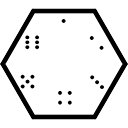
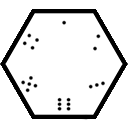
minor tweaks

diff --git a/Monopoly/core/src/scenes/DiceScene.java b/Monopoly/core/src/scenes/DiceScene.java
@@ -164,13 +164,13 @@ public class DiceScene {
         rightWallBody.createFixture(rightWallBox, 0.0f);
         rightWallBox.dispose();
 
-        BodyDef groundContainerBodyDef = new BodyDef();
-        groundContainerBodyDef.position.set(new Vector2((Monopoly.WIDTH/PIXELS_IN_A_METER)/2, 0));
-        Body groundContainerBody = world.createBody(groundContainerBodyDef);
-        PolygonShape groundContainerBox = new PolygonShape();
-        groundContainerBox.setAsBox((Monopoly.WIDTH/PIXELS_IN_A_METER)/2, 10/PIXELS_IN_A_METER);
-        groundContainerBody.createFixture(groundContainerBox, 0.0f);
-        groundContainerBox.dispose();
+        //BodyDef groundContainerBodyDef = new BodyDef();
+        //groundContainerBodyDef.position.set(new Vector2((Monopoly.WIDTH/PIXELS_IN_A_METER)/2, 0));
+        //Body groundContainerBody = world.createBody(groundContainerBodyDef);
+        //PolygonShape groundContainerBox = new PolygonShape();
+        //groundContainerBox.setAsBox((Monopoly.WIDTH/PIXELS_IN_A_METER)/2, 10/PIXELS_IN_A_METER);
+        //groundContainerBody.createFixture(groundContainerBox, 0.0f);
+        //groundContainerBox.dispose();
 
         BodyDef obstacleBodyDef = new BodyDef();
         obstacleBodyDef.position.set(new Vector2(0, (Monopoly.HEIGHT/PIXELS_IN_A_METER)/4));
@@ -189,14 +189,20 @@ public class DiceScene {
     }
 
     public Vector2 results() {
-        int negativeCorrection1 = (int)sp1.getRotation();
-        int negativeCorrection2 = (int)sp2.getRotation();
+        int negativeCorrection1 = (int)sp1.getRotation() + 30;
+        int negativeCorrection2 = (int)sp2.getRotation() + 30;
         while(negativeCorrection1 <= 0)
             negativeCorrection1 += 360;
         while(negativeCorrection2 <= 0)
             negativeCorrection2 += 360;
 
-        return new Vector2(Math.round(((negativeCorrection1/60)%6)+1),
-                Math.round(((negativeCorrection2/60)%6)+1));
+        int die1 = Math.round(((negativeCorrection1/60)%6)+1);
+        int die2 = Math.round(((negativeCorrection2/60)%6)+1);
+        if (die1 == 4 || die1 == 6)
+            die1 = 10 - die1;
+        if (die2 == 4 || die2 == 6)
+            die2 = 10 - die2;
+
+        return new Vector2(die1, die2);
     }
 }
